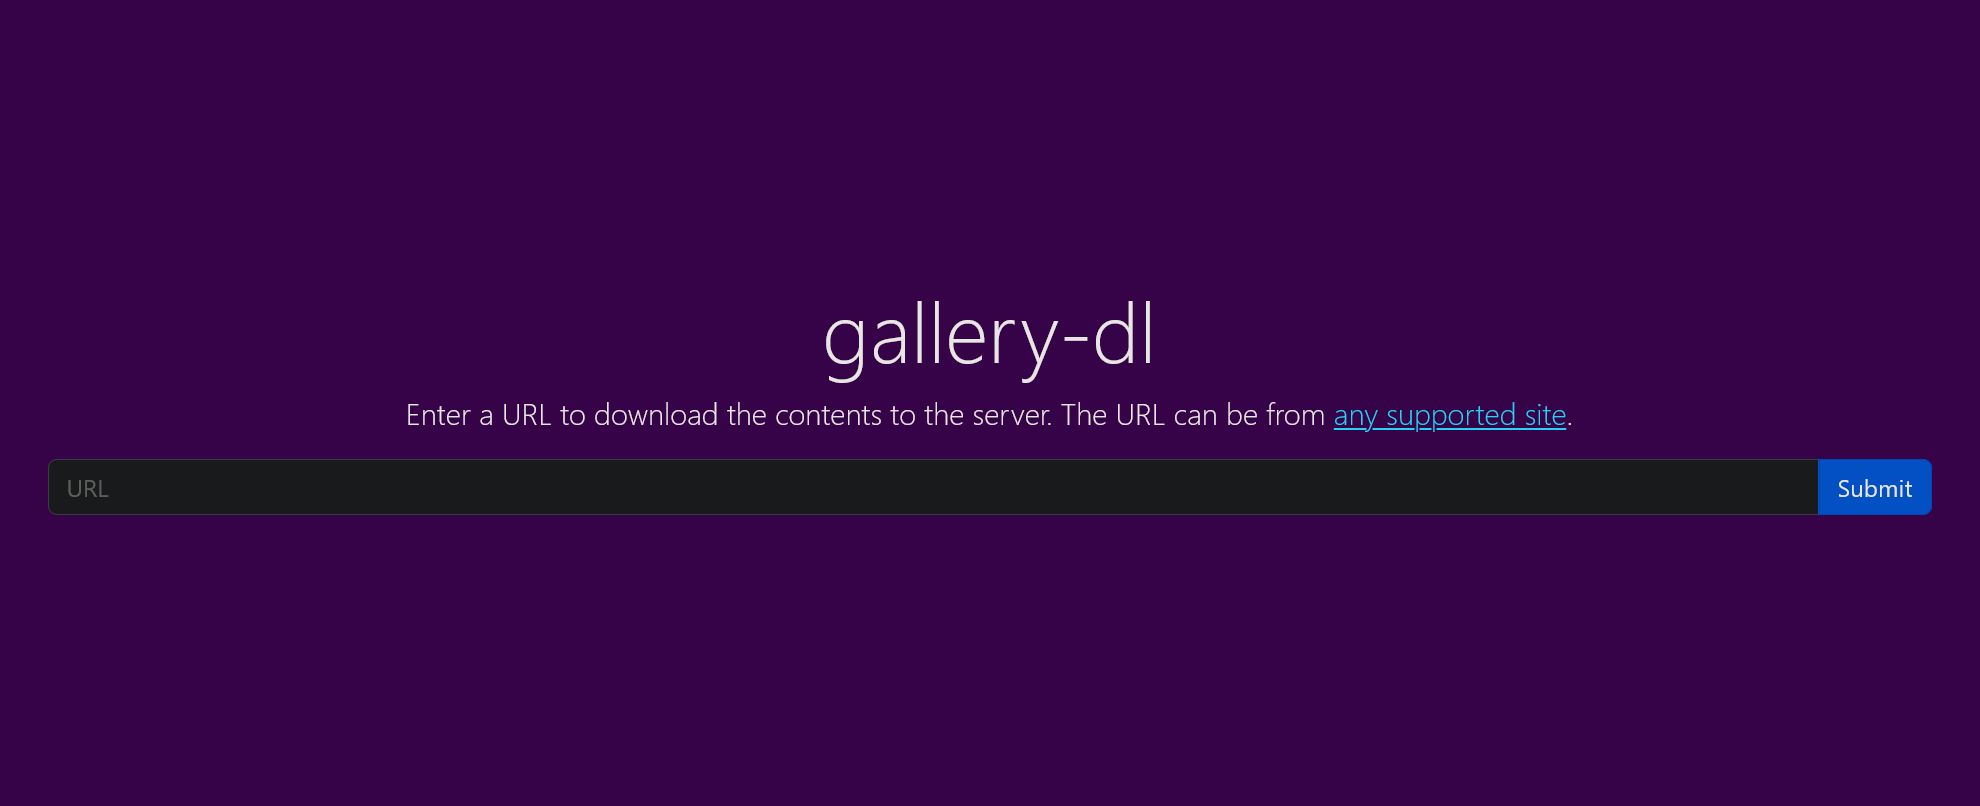
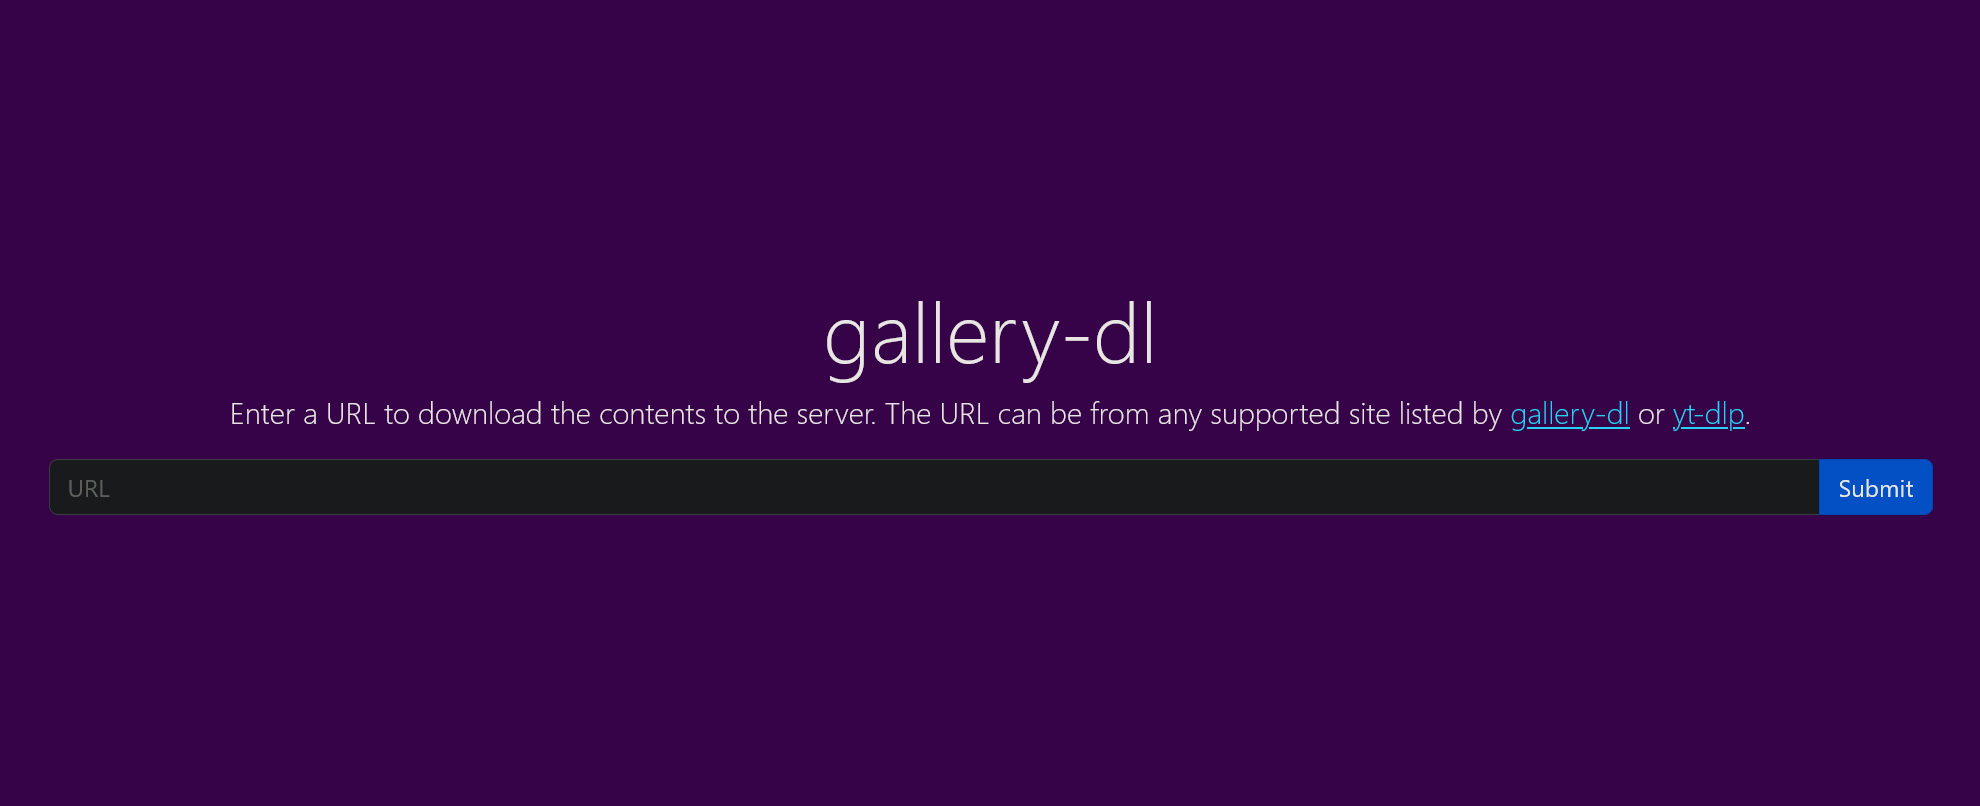
template: update frontend

diff --git a/templates/index.html b/templates/index.html
@@ -33,11 +33,17 @@
         <h1 class="display-4">gallery-dl</h1>
         <p class="lead">
           Enter a URL to download the contents to the server. The URL can be
-          from
+          from any supported site listed by
           <a
             class="text-info"
             href="https://github.com/mikf/gallery-dl/blob/master/docs/supportedsites.md"
-            >any supported site</a
+            >gallery-dl</a
+          >
+          or
+          <a
+            class="text-info"
+            href="https://github.com/yt-dlp/yt-dlp/blob/master/supportedsites.md"
+            >yt-dlp</a
           >.
         </p>
         <form action="/gallery-dl/q" method="POST">
